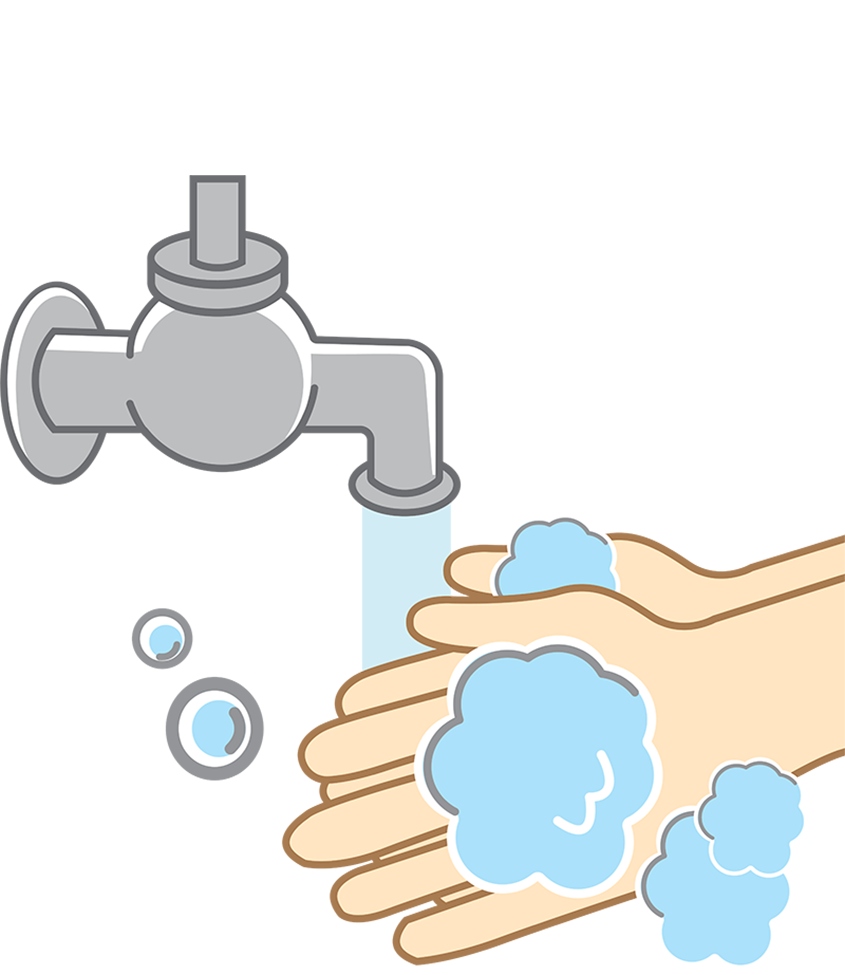
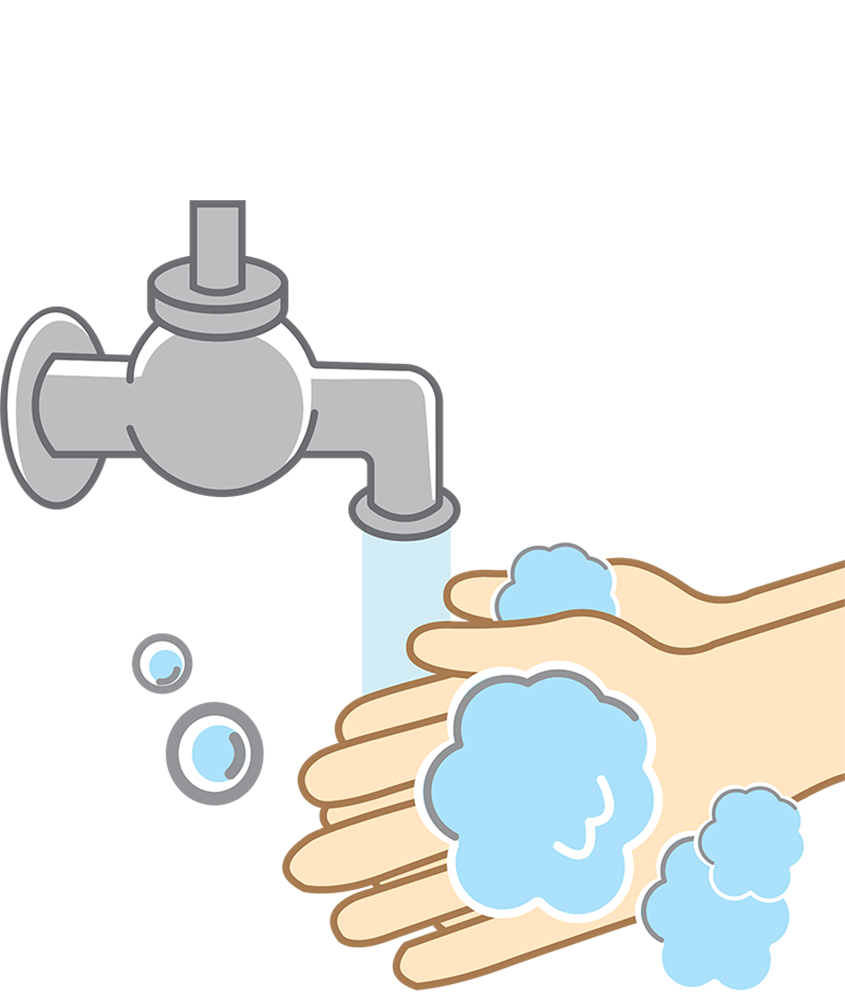
wash

diff --git a/wash/style.css b/wash/style.css
@@ -1,9 +1,18 @@
-.wash-facts {
-    grid-area: wash-information;
+main {
+    width: 100%;
+    max-width: 1920px;
+    justify-items: center;
+    display: grid;
+    grid-gap: 5px;
+    grid-template-areas: 
+        "wash-title"
+        "wash-information"
+        "wash-pictures"
 }
 
-.wash-images {
-    grid-area: wash-pictures;
+main ul {     
+    list-style: square;
+    padding: 0 50px;
 }
 
 h1 {
@@ -19,42 +28,71 @@ h2 {
     padding: 10px;
 }
 
-
 p {
     padding: 10px;
 }
 
-
-img {
-    width: 100%;
+.wash-facts {
+    grid-area: wash-information;
 }
 
-main ul {
-    list-style: square;
-    padding: 0 50px;
+.wash-images {
+    grid-area: wash-pictures;
+    display: flex;
+    flex-direction: column;
+    justify-content: flex-start;
+    align-items: center;
 }
 
-main {
-    width: 100%;
-    max-width: 1920px;
-    justify-items: center;
-    display: grid;
-    grid-gap: 5px;
-    grid-template-areas: 
-        "wash-title"
-        "wash-information"
-        "wash-pictures"
+#hands {
+    width: 400px;
+
 }
+
+#spout {
+    position: absolute;
+    bottom: -575px;
+}
+
+.turn-on-water {
+    animation-name: turn-on;
+    animation-duration: 10s;
+    animation-fill-mode: forwards;
+}
+
+
+@keyframes turn-on {
+    from {
+        transform: rotate(0deg);
+    }
+    to {
+        transform: rotate(359deg)
+    }
+}
+
+
 
 @media only screen and (min-width: 481px) {
-    
     main {
-        grid-template-columns: 1fr, 2fr;
+        grid-template-columns: 1fr, 1fr;
         grid-gap: 10px;
         grid-template-areas:
             "wash-title wash-title"
             "wash-pictures wash-information"
     }
+
+    #hands {
+        width: 700px;
+        position: relative;
+        top: 0px;
+        left: 0px
+    }
     
+    #spout {
+        min-width: 250px;
+        top: 110px;
+        left: 40px;
+        z-index: 1;
+    }
 
 }

diff --git a/wash/index.html b/wash/index.html
@@ -69,5 +69,6 @@
     <footer>
         <p>*this information is adapted from <a href="https://www.bluecrossnc.com/covid-19/3-ws-and-staying-healthy">BlueCross Blue Shield of North Carolina</a>. and the <a href="https://www.cdc.gov/coronavirus/2019-nCoV/index.html">CDC</a>.</p>
     </footer>
+    <script src="main.js"></script>
 </body>
 </html>

diff --git a/wash/main.js b/wash/main.js
@@ -1,0 +1,3 @@
+$('#spout').click(function(){
+    $('#spout').addClass("turn-on-water");
+  })
